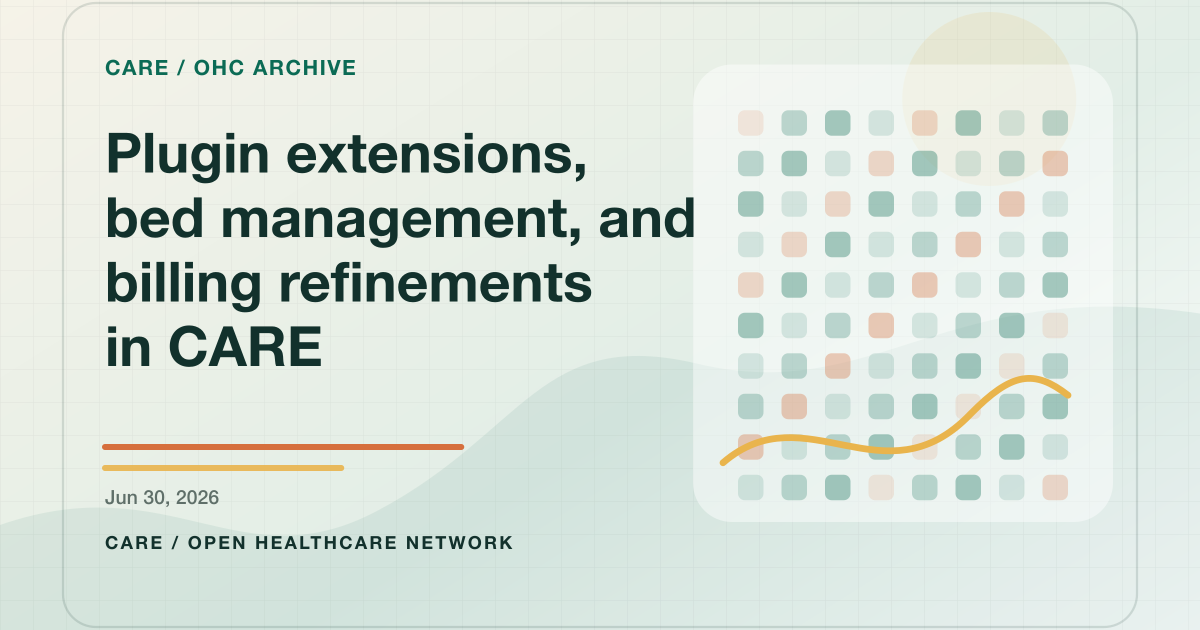
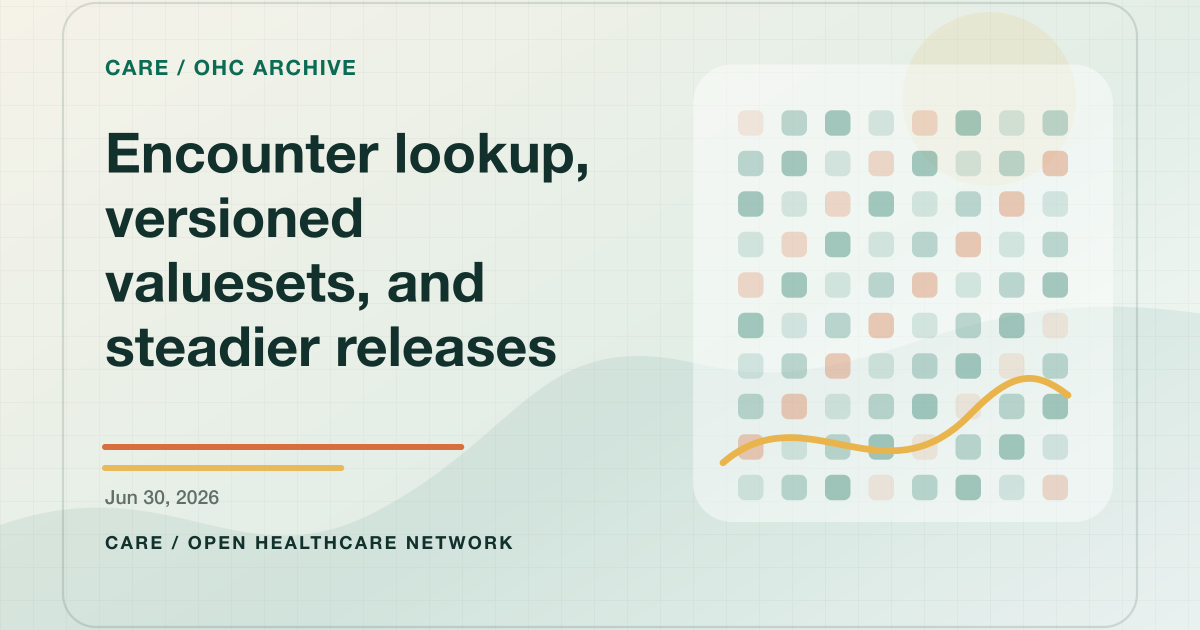
Update June CARE article title and excerpt

Changed region(s): [[0.0925, 0.2111, 0.5858, 0.6032]]

diff --git a/content/blog/plugin-extensions-bed-management-billing-care.md b/content/blog/plugin-extensions-bed-management-billing-care.md
@@ -1,6 +1,6 @@
 ---
-title: Plugin extensions, bed management, and billing refinements in CARE
-excerpt: June 2026 opened new plugin points for logistics, invoice printing, and patient profiles, simplified bed and location management, tightened payment reconciliation, and made encounters easier to find.
+title: Encounter lookup, versioned valuesets, and steadier releases in CARE
+excerpt: June was a month of tightening the core. Staff can now go straight to an encounter by its ID, service requests carry the location they belong to, and clinical valuesets are versioned so every deployment knows exactly which terminology it is working with. CARE also became more dependable after each release, with fixes that stop the app failing to load after an update and builds that can be traced to the moment they were made. The new plugin extension points from the month are covered briefly at the end.
 publishedAt: 2026-06-30
 author:
   name: Open Healthcare Network Foundation
@@ -11,7 +11,7 @@ categories:
     slug: hmis
 mainImage:
   src: "/blog/covers/plugin-extensions-bed-management-billing-care.svg"
-  alt: "Plugin extensions, bed management, and billing refinements in CARE cover illustration"
+  alt: "Encounter lookup, versioned valuesets, and steadier releases in CARE cover illustration"
 ---
 
 June focused on the everyday workflows that hospital staff depend on: finding encounters and tracking orders. Alongside that came versioned clinical valuesets, a more reliable app after updates, and a steady set of fixes across the platform.
